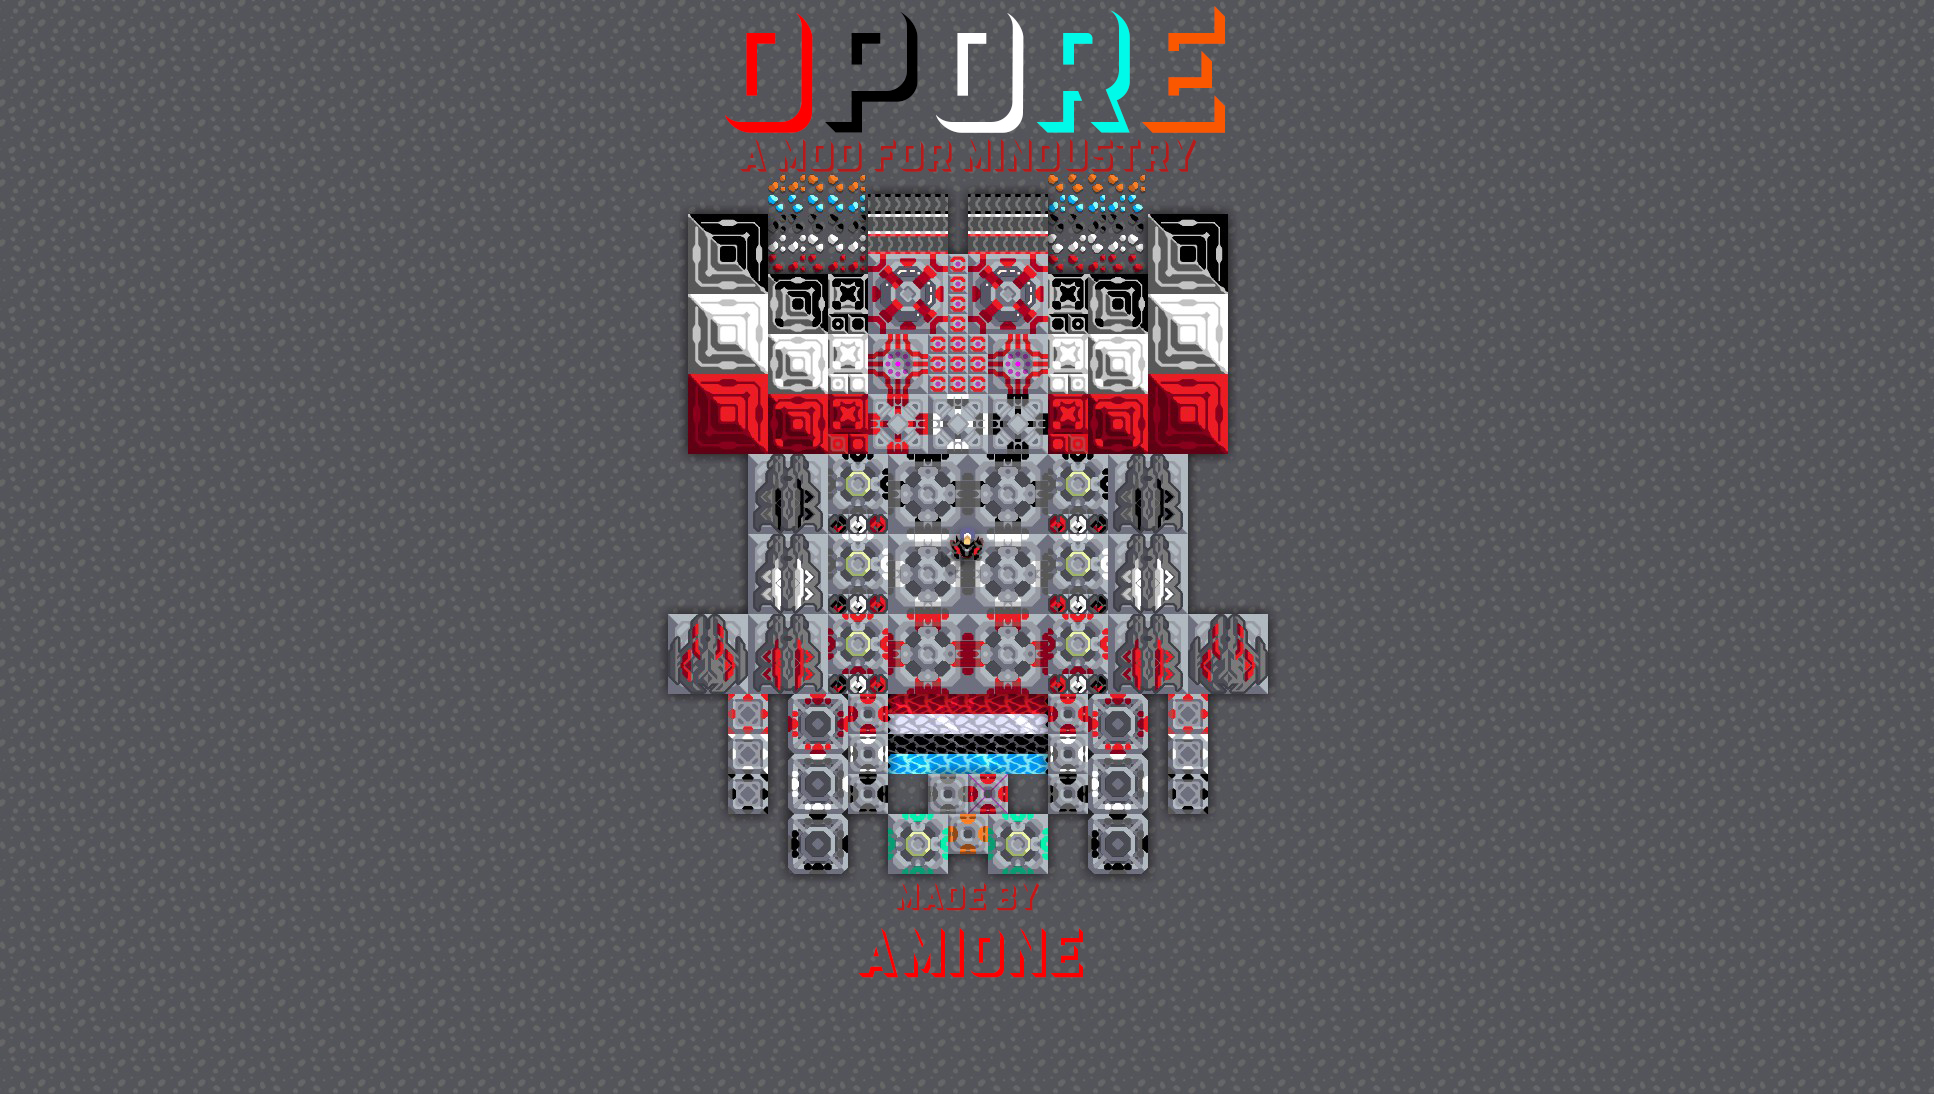
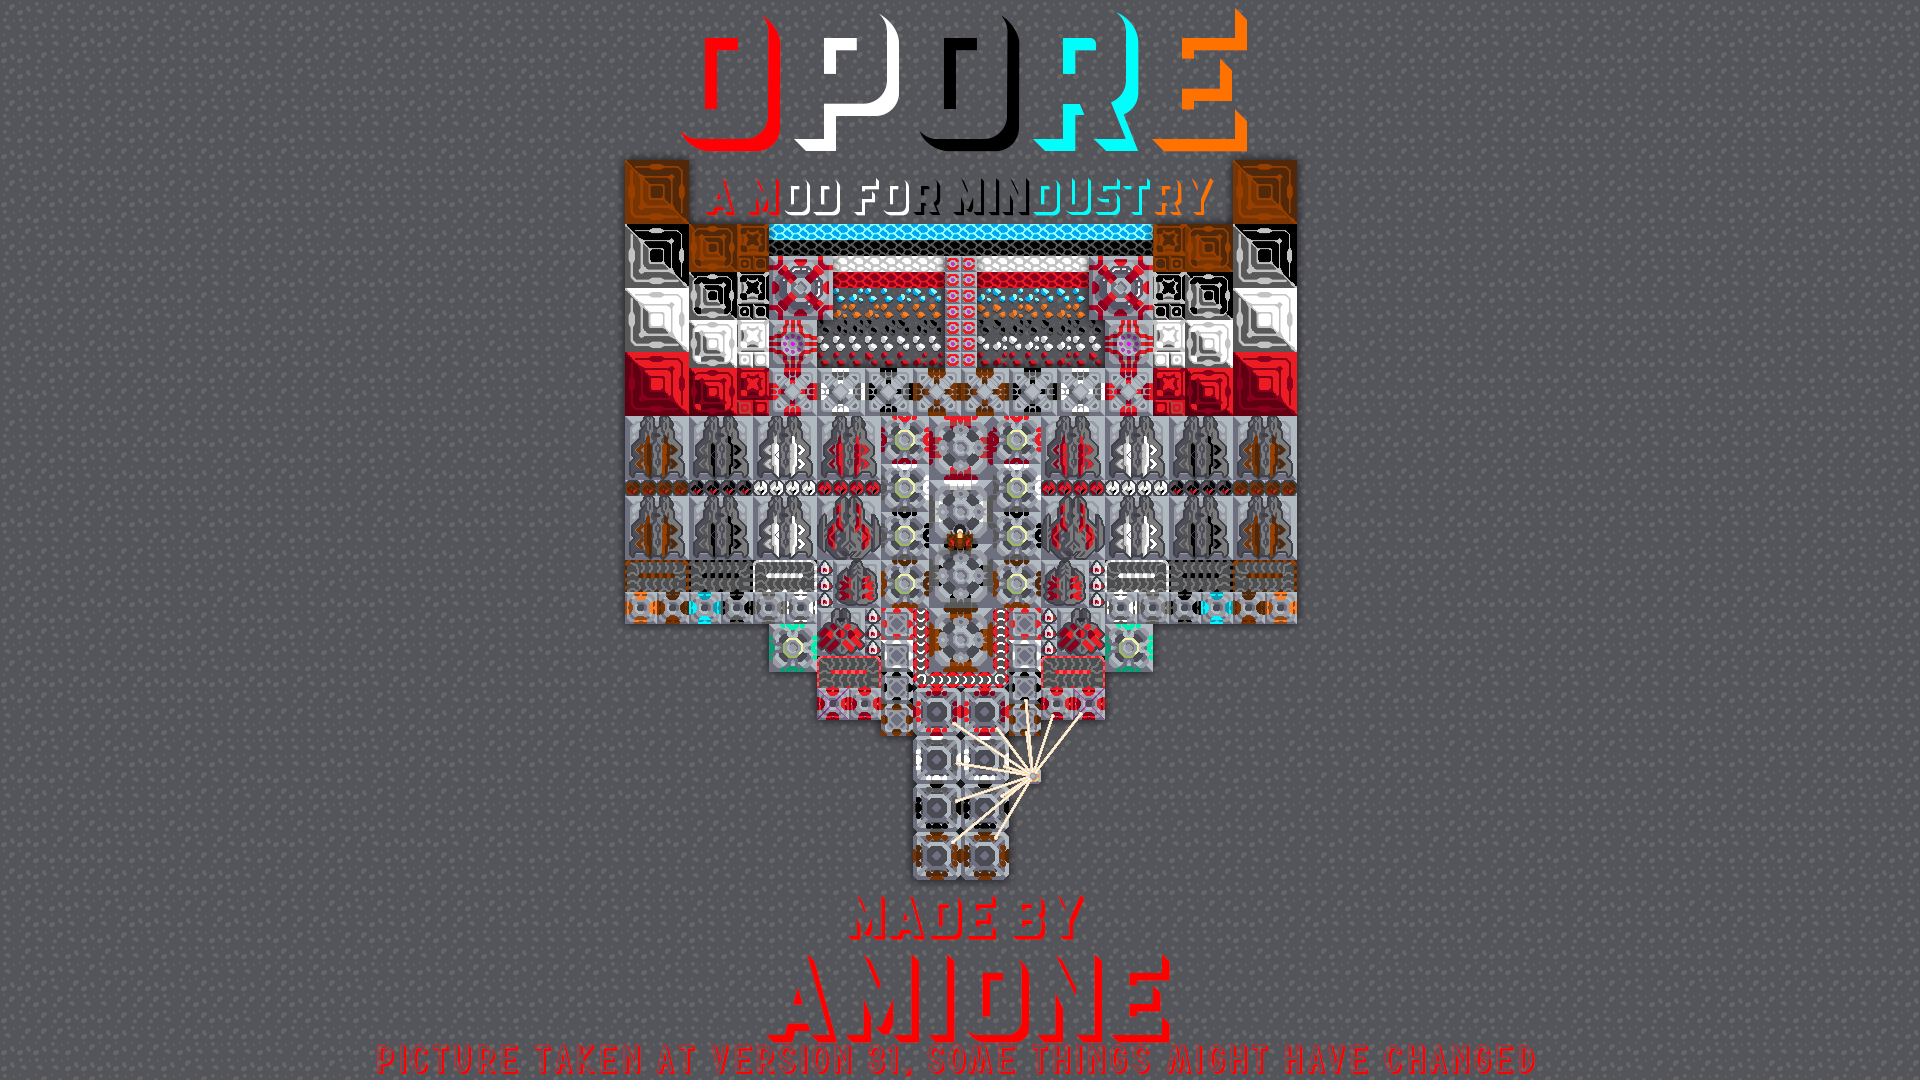
Synced with steam version
check changelogs.txt

Changed region(s): [[0.1875, 0.0, 0.8125, 1.0]]

diff --git a/README.md b/README.md
@@ -11,12 +11,14 @@ because you get automatic updates whenever i update the mod, also its easier for
 
 # Updates
 <<<<<<< HEAD
+* 11 Nov @ 12:27am Update 31: Improved Preview.png
+* 10 Nov @ 11:14pm Update 30.9: Made Opore Conduits (requested but there's no point in making this because the speed cant be increased only the capacity can, as so far as i know)
+* 10 Nov @ 11:14pm Update 30.8: Made ores be mineable by the last drill (ex. holyore can be mined by opore drill but not from airblast)
+* 10 Nov @ 11:14pm Update 30.7: Made drills mine ores from other mods (it may not mine some)
 * 9 Nov @ 12:10pm Update 30.6: Tweaked forges, made some use more, some use less
 * 9 Nov @ 12:09pm Update 30.5: Made Opore Reactor use more items
 * 9 Nov @ 12:09pm Update 30.4: Fixed Opore Reactor crash
 * 9 Nov @ 12:09pm Update 30.3: Fixed lots of grammar issues
-=======
->>>>>>> 0e2967f385725f21705c2f8057084250b54d6ed4
 * 9 Nov @ 1:28am Update 30.2: Fixed some grammar errors in wall descriptions
 * 9 Nov @ 1:28am Update 30.1: Changed tech tree order for walls
 * 7 Nov @ 3:23am Update 30: (Major) Added opore arc, added opore fuse, added opore ripple, added halloweenite set, nerfed conveyors, added new zone, fixed mod.json (invalid version).
